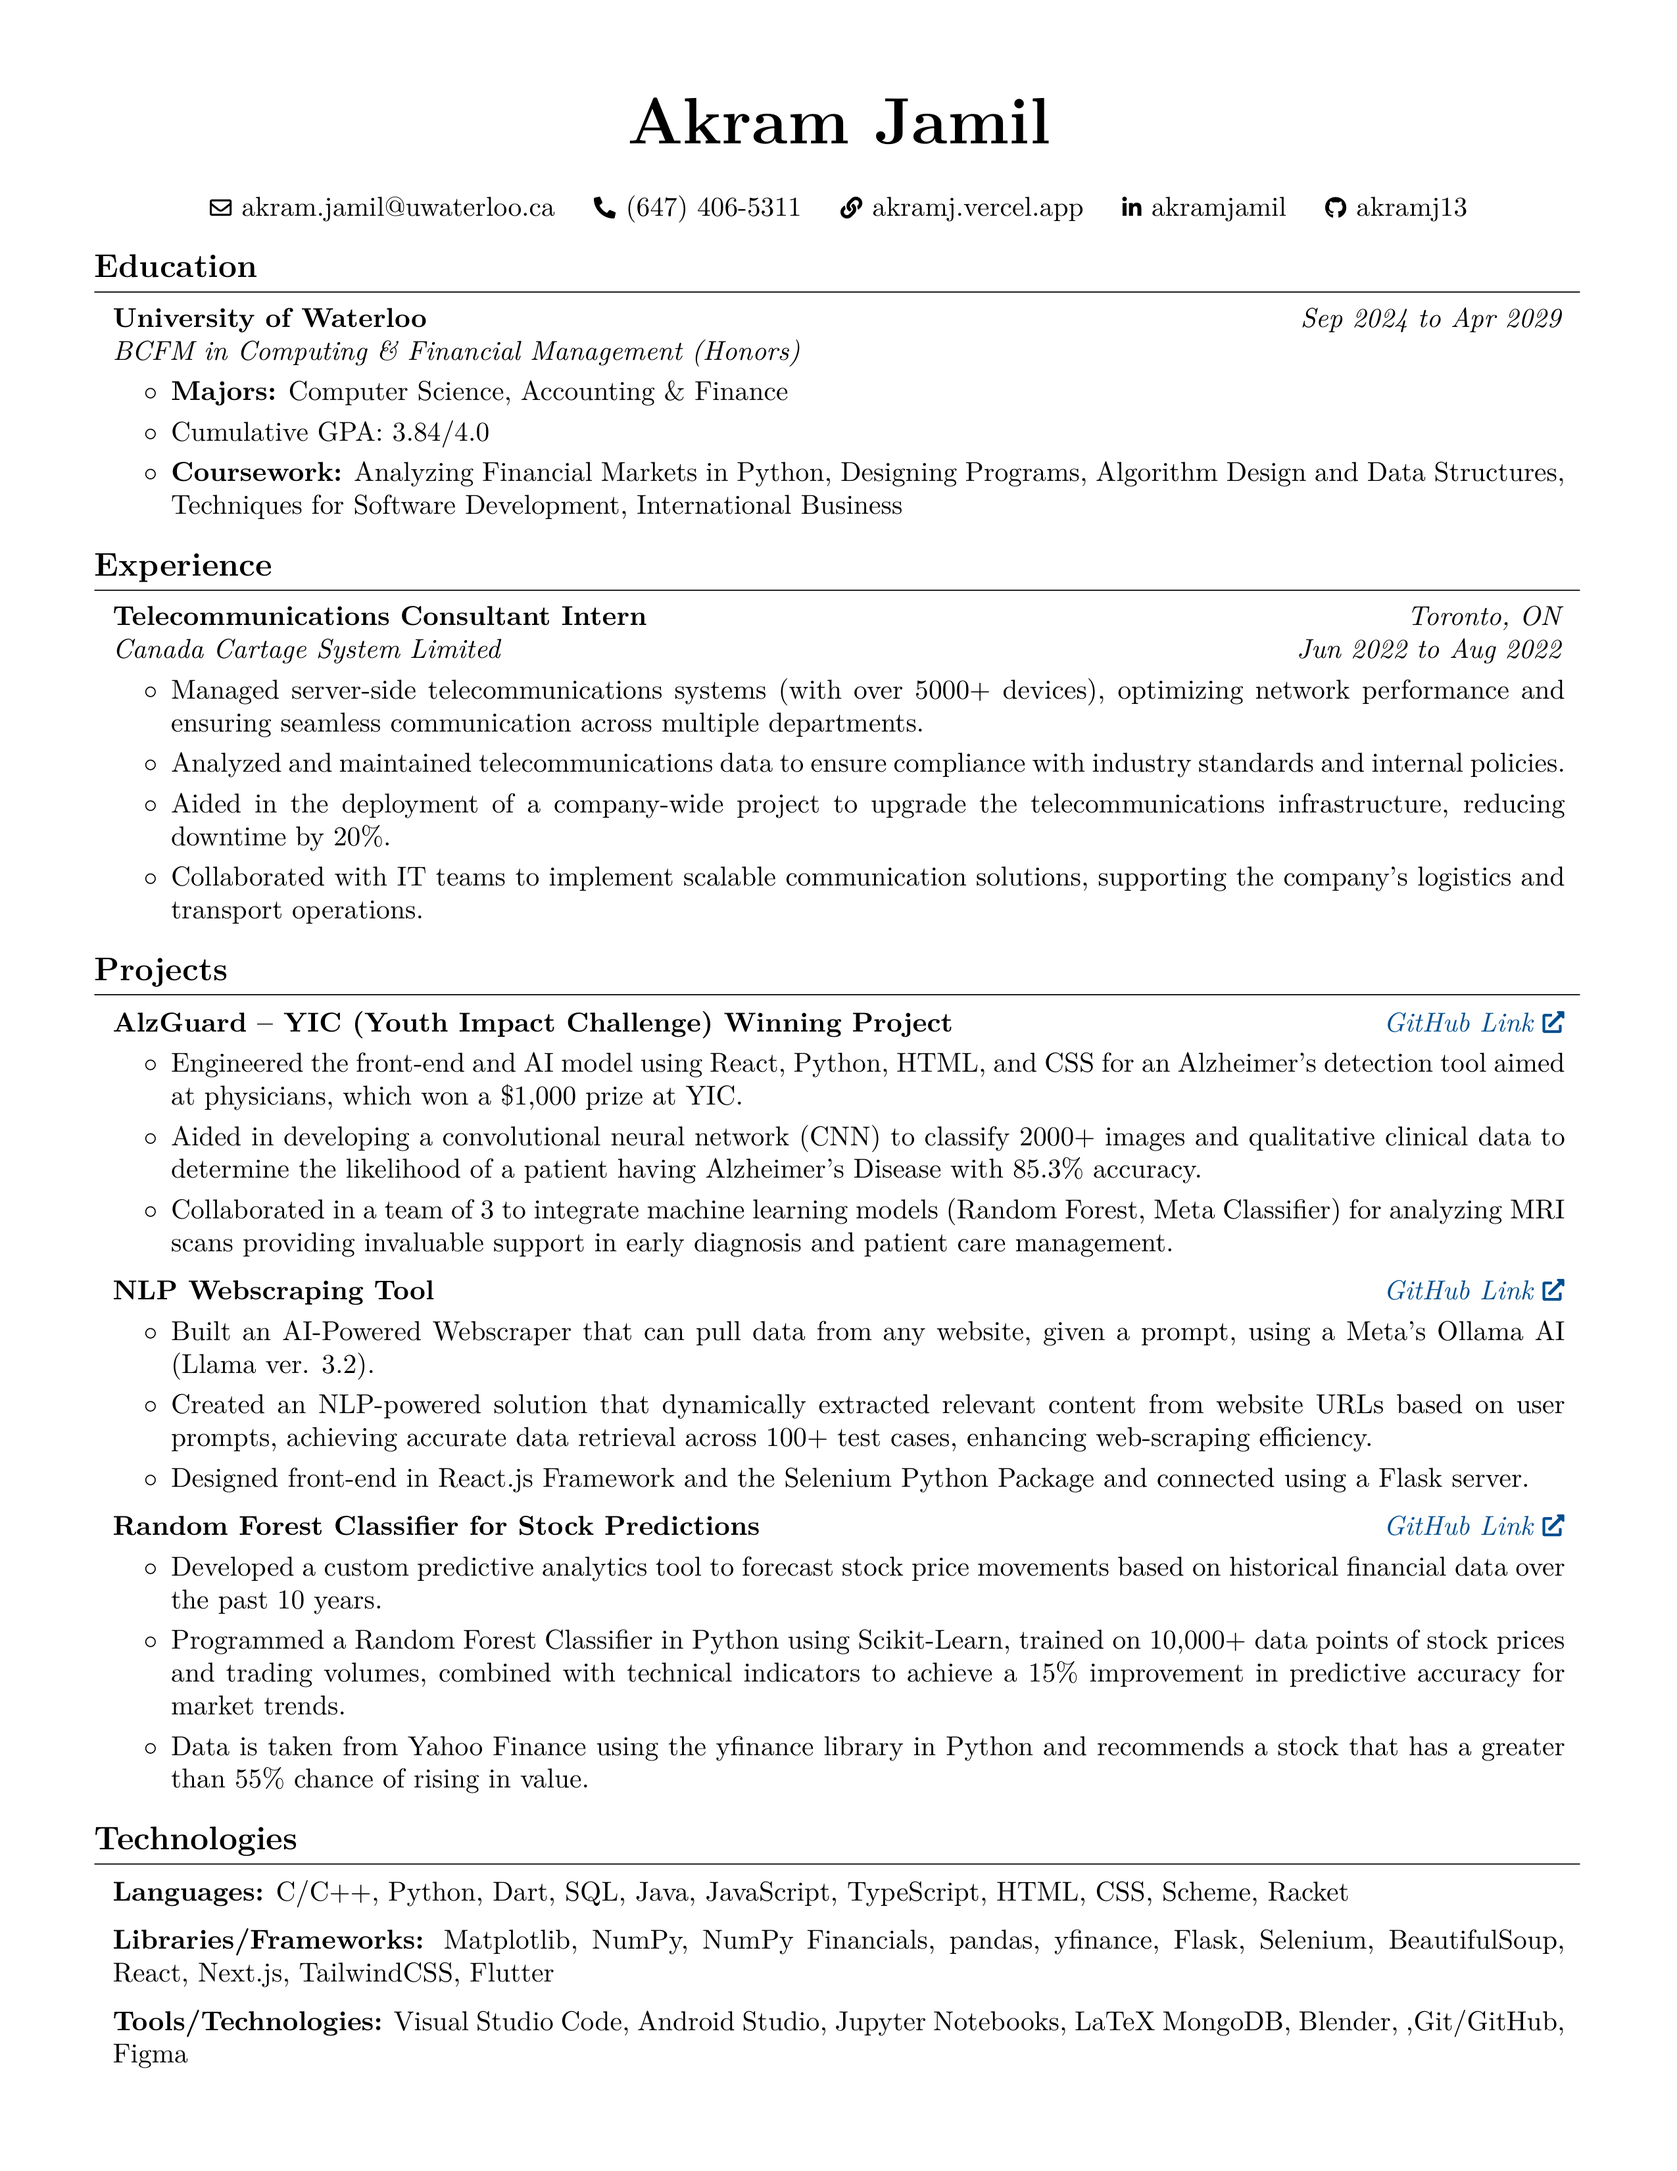
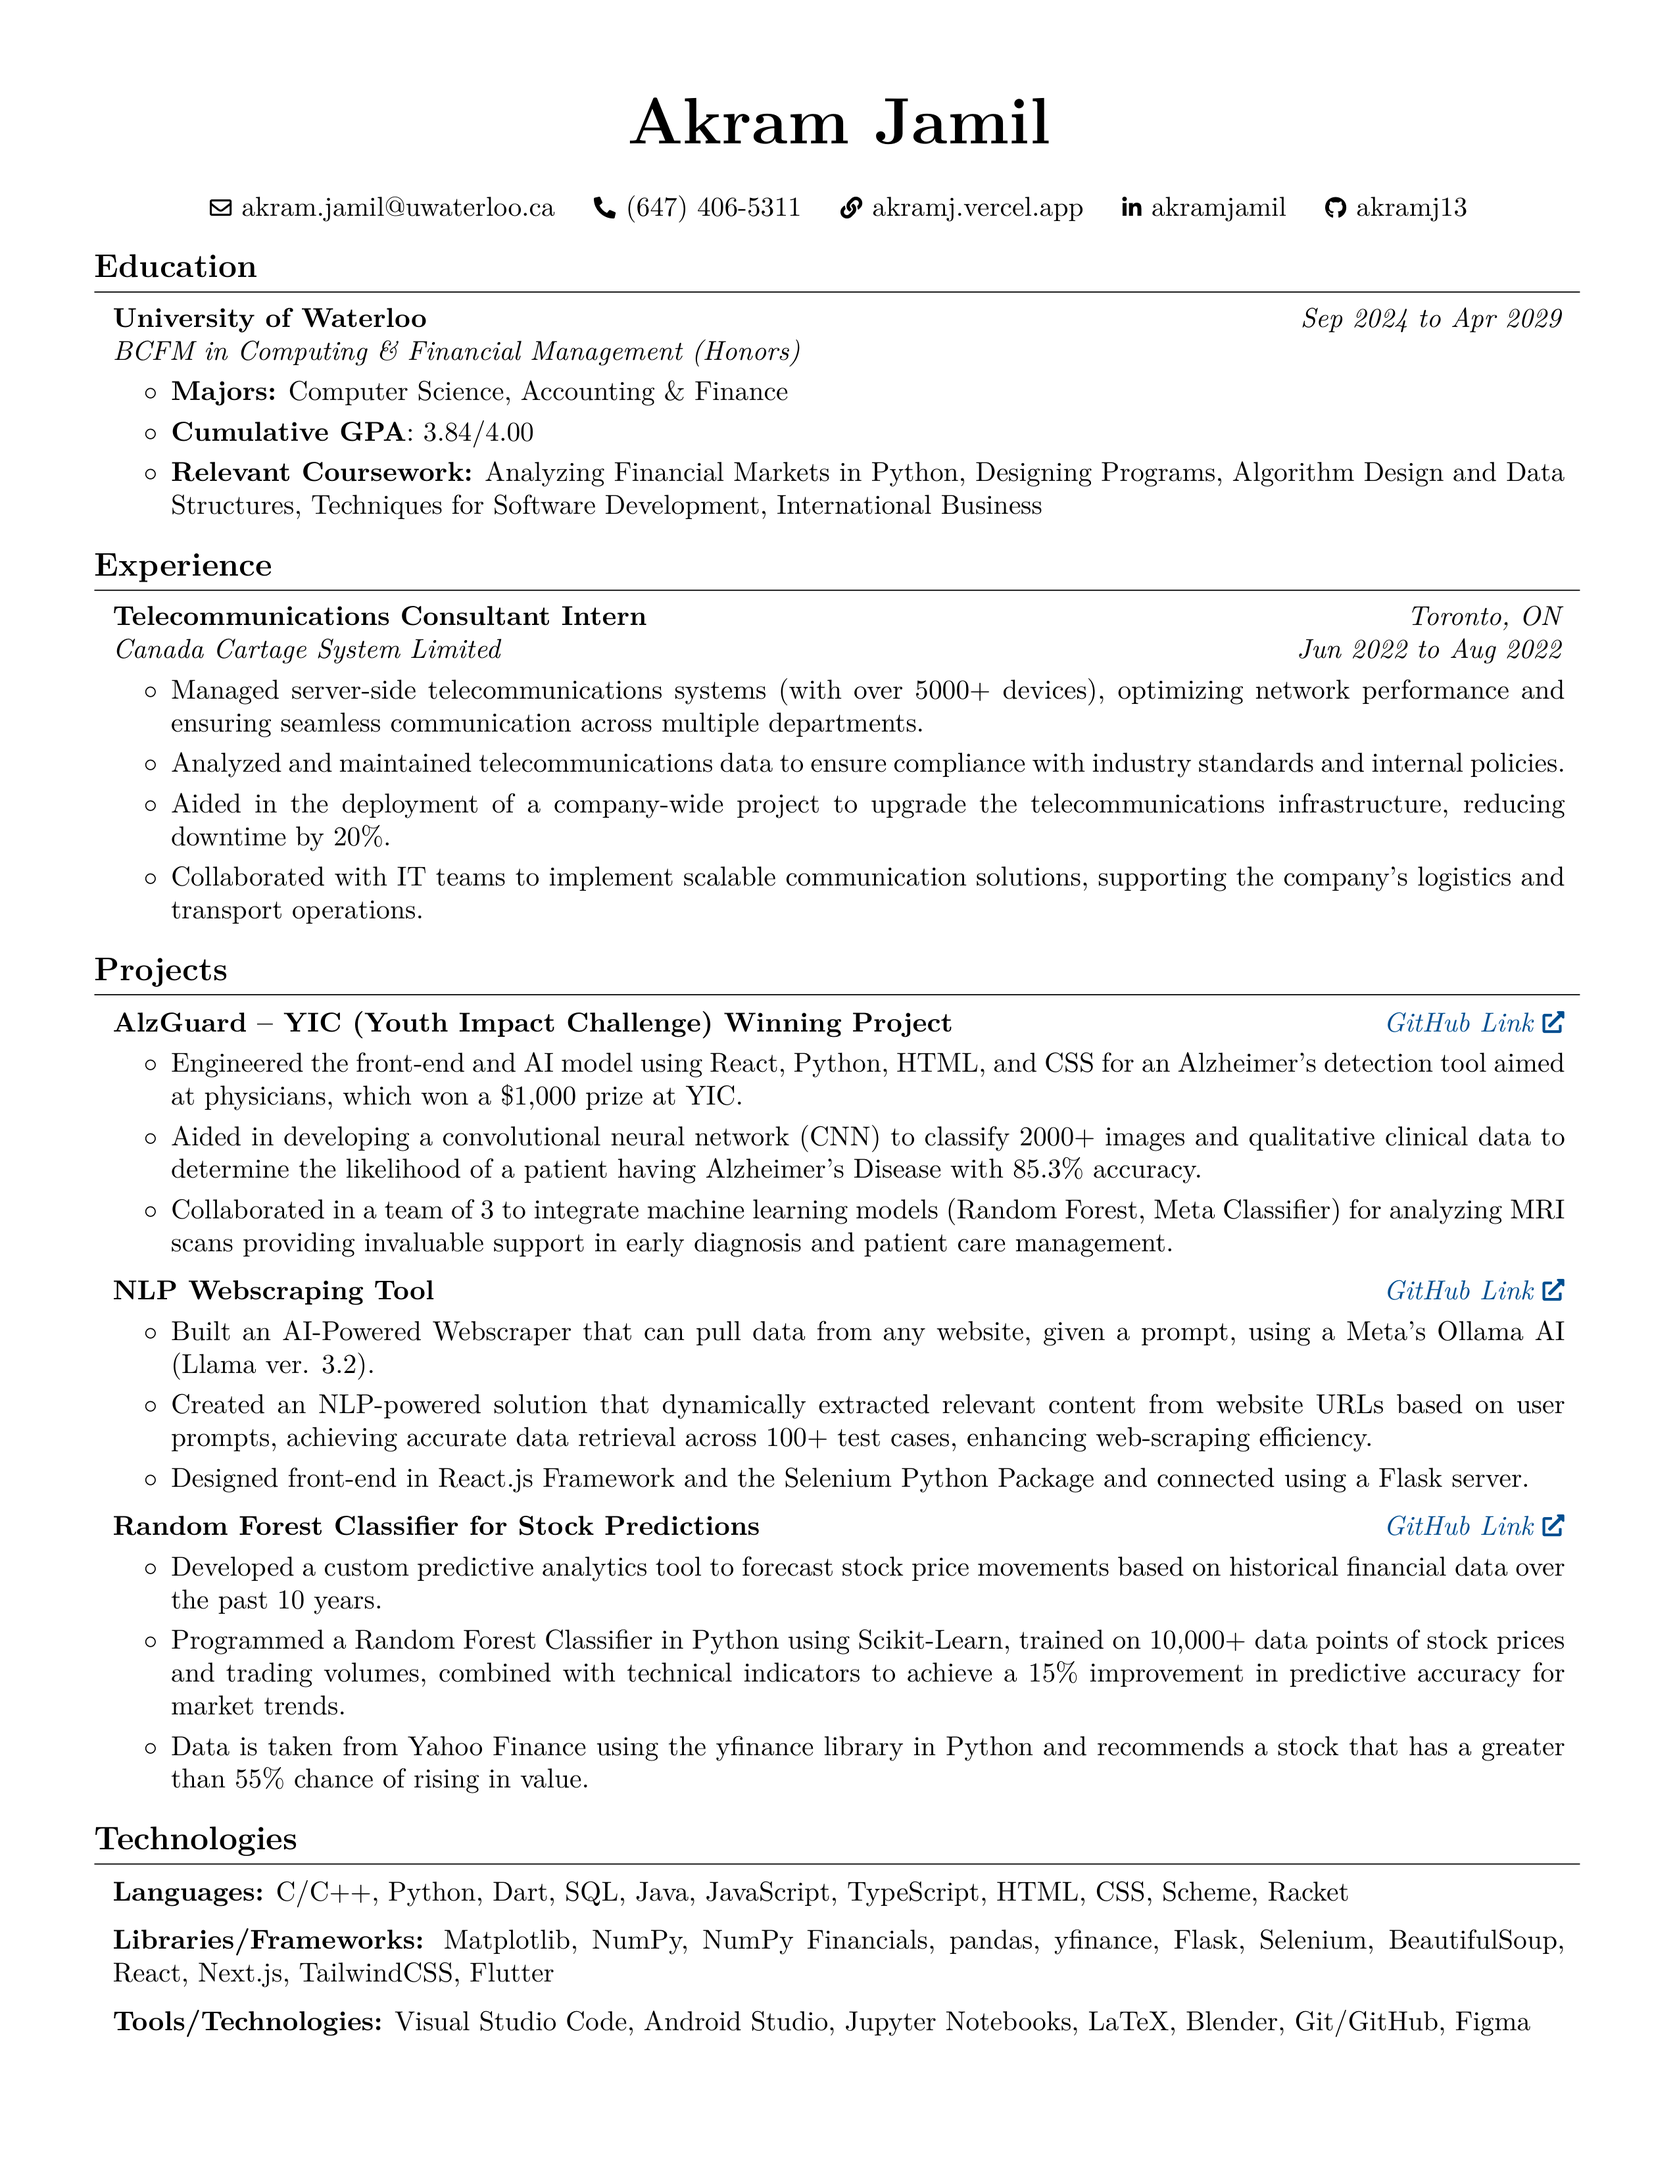
fixes

diff --git a/files/rendercv_output/Akram_Jamil_CV.html b/files/rendercv_output/Akram_Jamil_CV.html
@@ -44,8 +44,8 @@
         <ul>
         <li>Sep 2024 to Apr 2029</li>
         <li><strong>Majors:</strong> Computer Science, Accounting &amp; Finance</li>
-        <li>Cumulative GPA: 3.84/4.0</li>
-        <li><strong>Coursework:</strong> Analyzing Financial Markets in Python, Designing Programs, Algorithm Design and Data Structures, Techniques for Software Development, International Business</li>
+        <li><strong>Cumulative GPA</strong>: 3.84/4.00</li>
+        <li><strong>Relevant Coursework:</strong> Analyzing Financial Markets in Python, Designing Programs, Algorithm Design and Data Structures, Techniques for Software Development, International Business</li>
         </ul>
         <h1>Experience</h1>
         <h2>Canada Cartage System Limited, Telecommunications Consultant Intern</h2>
@@ -83,7 +83,7 @@
         <ul>
         <li>Languages: C/C++, Python, Dart, SQL, Java, JavaScript, TypeScript, HTML, CSS, Scheme, Racket</li>
         <li>Libraries/Frameworks: Matplotlib, NumPy, NumPy Financials, pandas, yfinance, Flask, Selenium, BeautifulSoup, React, Next.js, TailwindCSS, Flutter</li>
-        <li>Tools/Technologies: Visual Studio Code, Android Studio, Jupyter Notebooks, LaTeX MongoDB, Blender, ,Git/GitHub, Figma</li>
+        <li>Tools/Technologies: Visual Studio Code, Android Studio, Jupyter Notebooks, LaTeX, Blender, Git/GitHub, Figma</li>
         </ul>
     </article>
 </body>

diff --git a/files/rendercv_output/Akram_Jamil_CV.tex b/files/rendercv_output/Akram_Jamil_CV.tex
@@ -193,8 +193,8 @@
         \begin{onecolentry}
             \begin{highlights}
                 \item \textbf{Majors:} Computer Science, Accounting \& Finance
-                \item Cumulative GPA: 3.84/4.0
-                \item \textbf{Coursework:} Analyzing Financial Markets in Python, Designing Programs, Algorithm Design and Data Structures, Techniques for Software Development, International Business
+                \item \textbf{Cumulative GPA}: 3.84/4.00
+                \item \textbf{Relevant Coursework:} Analyzing Financial Markets in Python, Designing Programs, Algorithm Design and Data Structures, Techniques for Software Development, International Business
             \end{highlights}
         \end{onecolentry}
 
@@ -308,7 +308,7 @@
         \vspace{0.2 cm}
 
         \begin{onecolentry}
-            \textbf{Tools/Technologies:} Visual Studio Code, Android Studio, Jupyter Notebooks, LaTeX MongoDB, Blender, ,Git/GitHub, Figma
+            \textbf{Tools/Technologies:} Visual Studio Code, Android Studio, Jupyter Notebooks, LaTeX, Blender, Git/GitHub, Figma
         \end{onecolentry}
 
 

diff --git a/files/rendercv_output/Akram_Jamil_CV.md b/files/rendercv_output/Akram_Jamil_CV.md
@@ -13,8 +13,8 @@
 
 - Sep 2024 to Apr 2029
 - **Majors:** Computer Science, Accounting & Finance
-- Cumulative GPA: 3.84/4.0
-- **Coursework:** Analyzing Financial Markets in Python, Designing Programs, Algorithm Design and Data Structures, Techniques for Software Development, International Business
+- **Cumulative GPA**: 3.84/4.00
+- **Relevant Coursework:** Analyzing Financial Markets in Python, Designing Programs, Algorithm Design and Data Structures, Techniques for Software Development, International Business
 
 # Experience
 
@@ -54,4 +54,4 @@
 
 - Languages: C/C++, Python, Dart, SQL, Java, JavaScript, TypeScript, HTML, CSS, Scheme, Racket
 - Libraries/Frameworks: Matplotlib, NumPy, NumPy Financials, pandas, yfinance, Flask, Selenium, BeautifulSoup, React, Next.js, TailwindCSS, Flutter
-- Tools/Technologies: Visual Studio Code, Android Studio, Jupyter Notebooks, LaTeX MongoDB, Blender, ,Git/GitHub, Figma
+- Tools/Technologies: Visual Studio Code, Android Studio, Jupyter Notebooks, LaTeX, Blender, Git/GitHub, Figma
